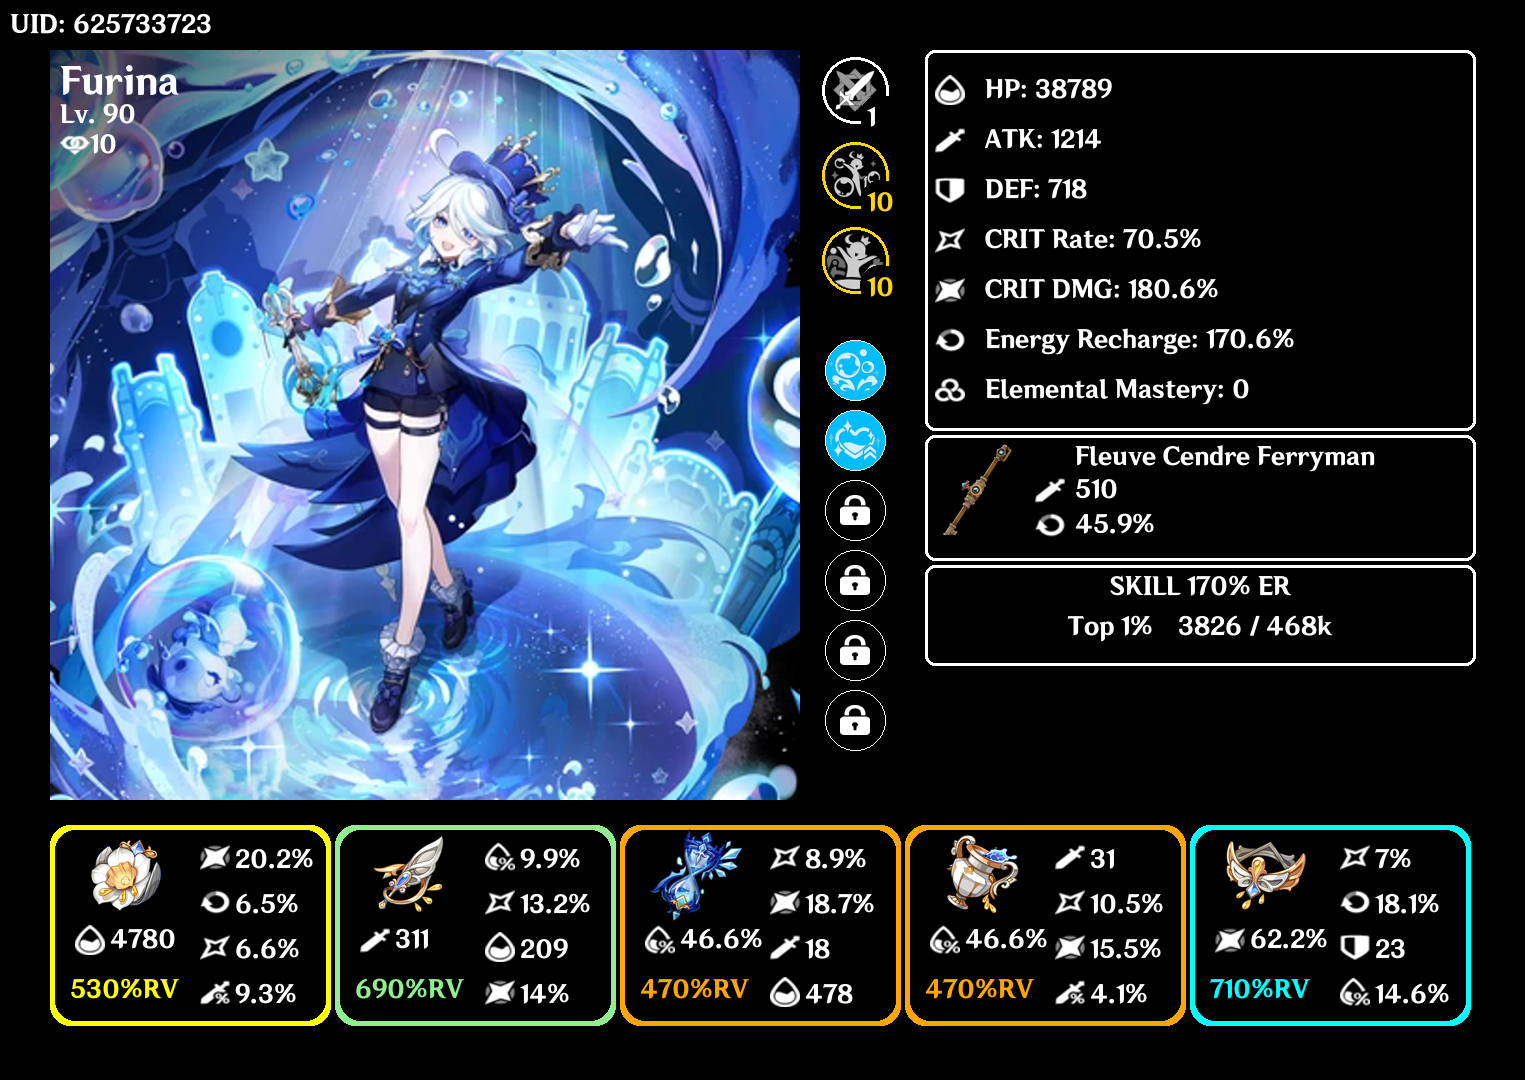
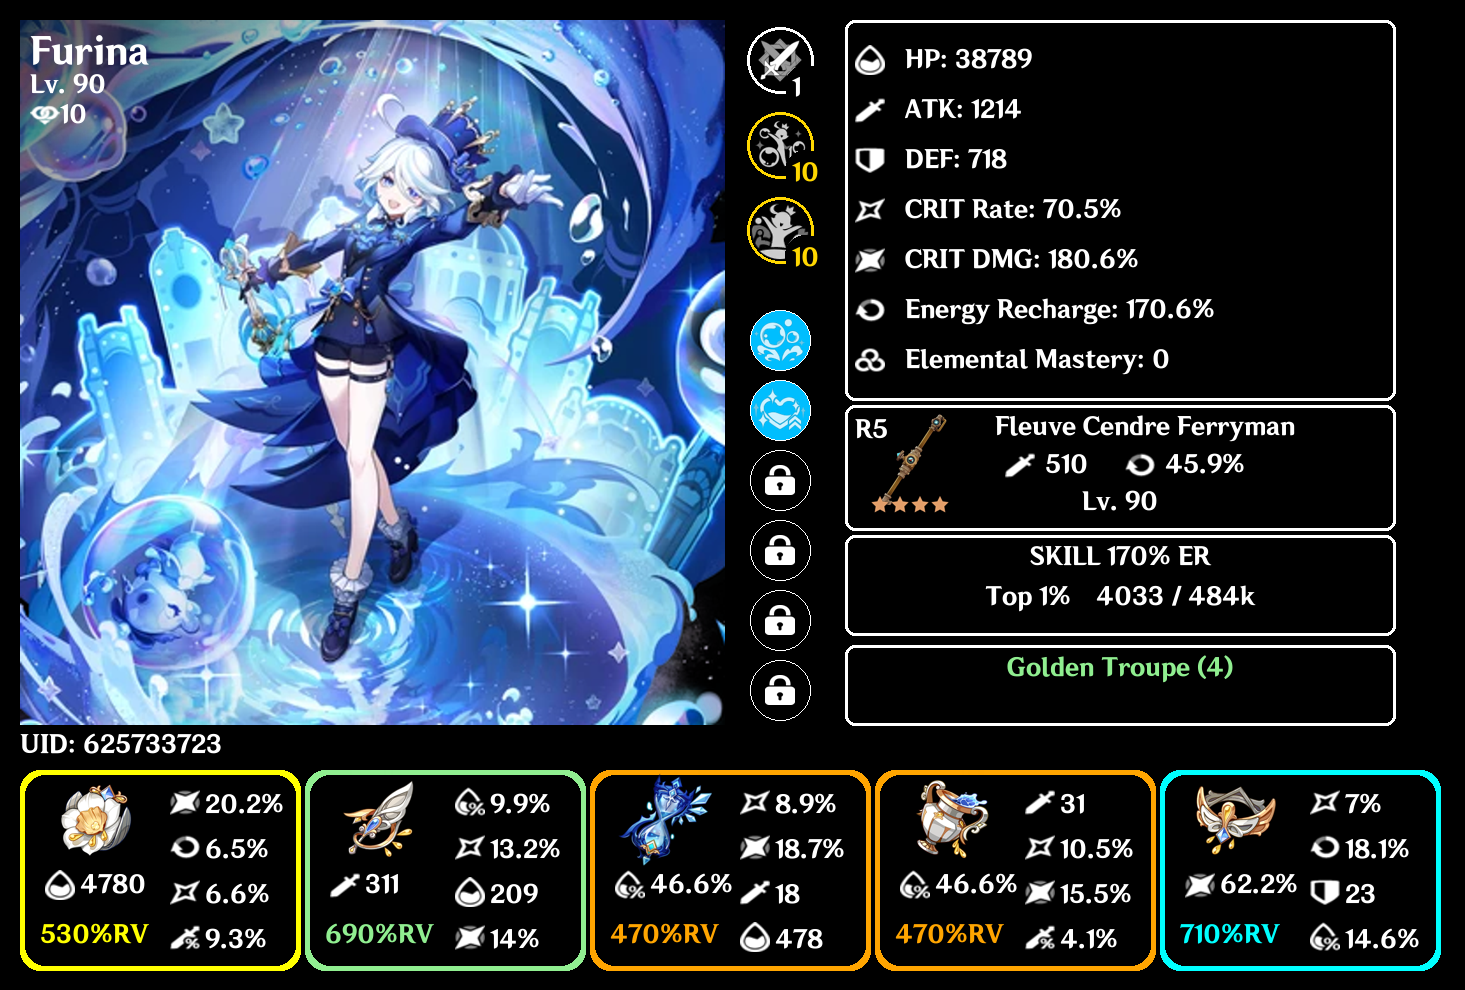
docs: update sample build images and changelog for bot v1.4

diff --git a/CHANGELOG.md b/CHANGELOG.md
@@ -5,12 +5,18 @@ Includes relevant information about releases.
 
 ## Upcoming:
 
-- Adding weapon level,
-- Adding weapon quality (4 vs 5 star)
-- Adding artifact set bonus display
 - Add character quality, 4- vs 5-star
 - Add profile / saving
 - Add highlight to constellation
+
+## 1.4.0 -- 01/09/2025
+
+Features:
+
+- Added weapon level
+- Added weapon quality (4 vs 5 star)
+- Added weapon refinement rank
+- Added artifact set bonus display
 
 ## 1.3.1 -- 12/23/2024
 
